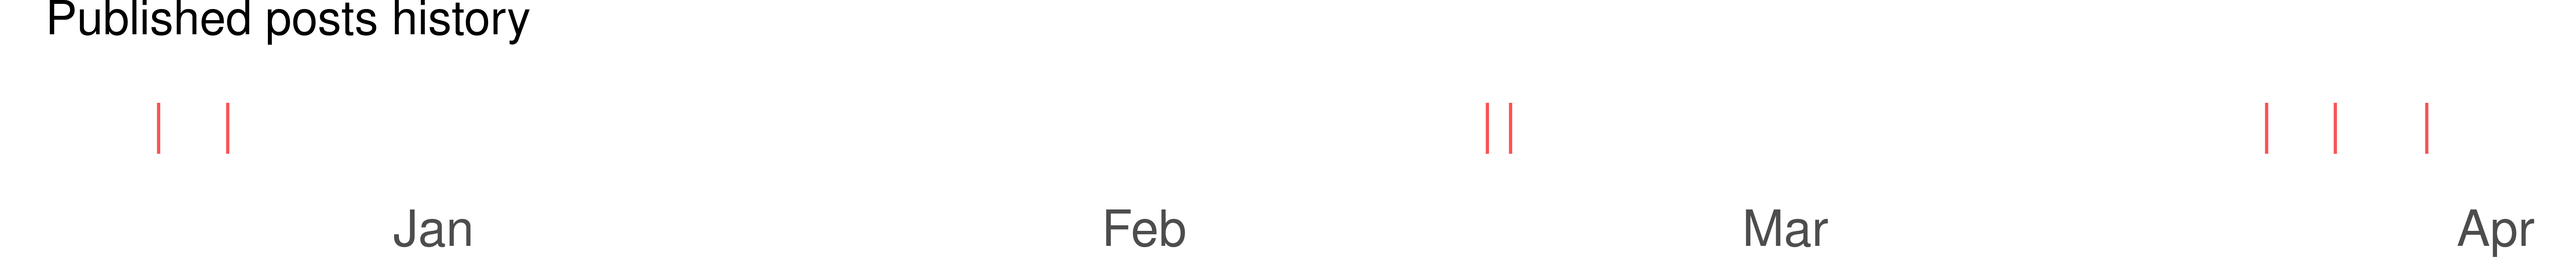
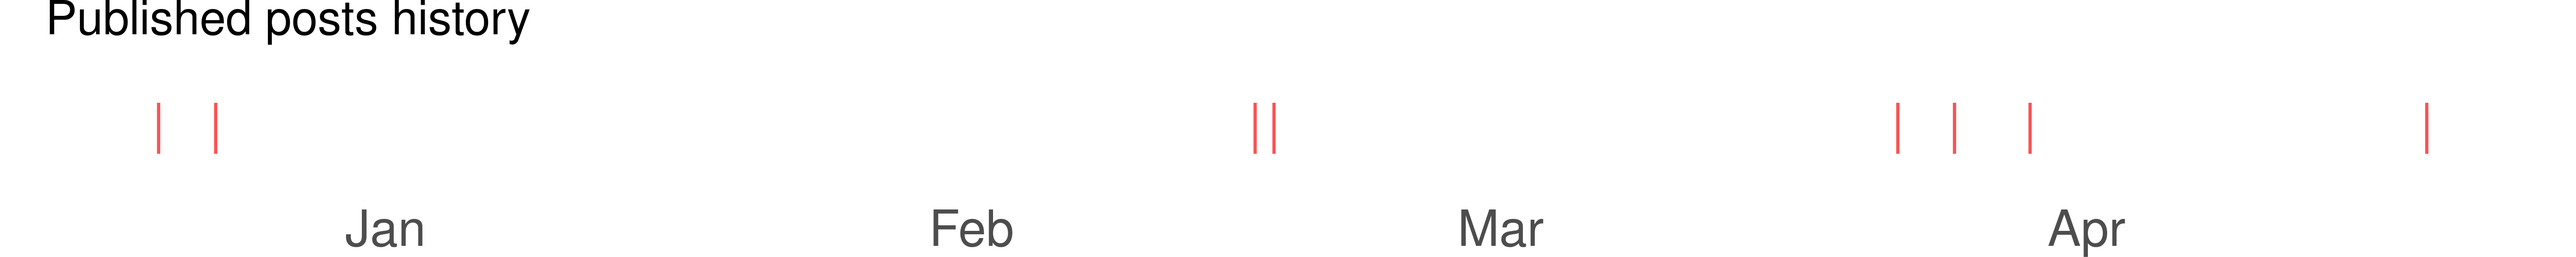
update blog post

diff --git a/docs/posts/2022-04-19-linkage-seminar-series-thursday-april-21/index.html b/docs/posts/2022-04-19-linkage-seminar-series-thursday-april-21/index.html
@@ -94,8 +94,8 @@ code span.wa { color: #5e5e5e; font-style: italic; } /* Warning */
 <link rel="canonical" href="https://recordlinkageig.github.io/posts/2022-04-19-linkage-seminar-series-thursday-april-21/"/>
 
 <!--  https://schema.org/Article -->
-<meta property="article:published" itemprop="datePublished" content="2022-03-25"/>
-<meta property="article:created" itemprop="dateCreated" content="2022-03-25"/>
+<meta property="article:published" itemprop="datePublished" content="2022-04-19"/>
+<meta property="article:created" itemprop="dateCreated" content="2022-04-19"/>
 <meta name="article:author" content="RLIG"/>
 
 <!--  https://developers.facebook.com/docs/sharing/webmasters#markup -->
@@ -117,14 +117,14 @@ code span.wa { color: #5e5e5e; font-style: italic; } /* Warning */
 <!--  https://scholar.google.com/intl/en/scholar/inclusion.html#indexing -->
 <meta name="citation_title" content="RLIG: 📢 Linkage Seminar Series - Thursday April 21"/>
 <meta name="citation_fulltext_html_url" content="https://recordlinkageig.github.io/posts/2022-04-19-linkage-seminar-series-thursday-april-21/"/>
-<meta name="citation_online_date" content="2022/03/25"/>
-<meta name="citation_publication_date" content="2022/03/25"/>
+<meta name="citation_online_date" content="2022/04/19"/>
+<meta name="citation_publication_date" content="2022/04/19"/>
 <meta name="citation_author" content="RLIG"/>
 <!--/radix_placeholder_meta_tags-->
   <!--radix_placeholder_rmarkdown_metadata-->
 
 <script type="text/json" id="radix-rmarkdown-metadata">
-{"type":"list","attributes":{"names":{"type":"character","attributes":{},"value":["title","description","author","date","preview","categories","output","citation_url","canonical_url"]}},"value":[{"type":"character","attributes":{},"value":["📢 Linkage Seminar Series - Thursday April 21"]},{"type":"character","attributes":{},"value":["David Beauchemin will discuss how duplicate detection can be used with AI and NLP techniques to extract information from external data sources using text distance metrics (e.g. Jaro) and classification algorithms. He will use a case study in insurance to demonstrate the proposed approach."]},{"type":"list","attributes":{},"value":[{"type":"list","attributes":{"names":{"type":"character","attributes":{},"value":["name"]}},"value":[{"type":"character","attributes":{},"value":["RLIG"]}]}]},{"type":"character","attributes":{},"value":["2022-03-25"]},{"type":"character","attributes":{},"value":["unnamed.jpg"]},{"type":"character","attributes":{},"value":["Events"]},{"type":"list","attributes":{"names":{"type":"character","attributes":{},"value":["distill::distill_article"]}},"value":[{"type":"list","attributes":{"names":{"type":"character","attributes":{},"value":["self_contained"]}},"value":[{"type":"logical","attributes":{},"value":[false]}]}]},{"type":"character","attributes":{},"value":["https://recordlinkageig.github.io/posts/2022-04-19-linkage-seminar-series-thursday-april-21/"]},{"type":"character","attributes":{},"value":["https://recordlinkageig.github.io/posts/2022-04-19-linkage-seminar-series-thursday-april-21/"]}]}
+{"type":"list","attributes":{"names":{"type":"character","attributes":{},"value":["title","description","author","date","preview","categories","output","citation_url","canonical_url"]}},"value":[{"type":"character","attributes":{},"value":["📢 Linkage Seminar Series - Thursday April 21"]},{"type":"character","attributes":{},"value":["David Beauchemin will discuss how duplicate detection can be used with AI and NLP techniques to extract information from external data sources using text distance metrics (e.g. Jaro) and classification algorithms. He will use a case study in insurance to demonstrate the proposed approach."]},{"type":"list","attributes":{},"value":[{"type":"list","attributes":{"names":{"type":"character","attributes":{},"value":["name"]}},"value":[{"type":"character","attributes":{},"value":["RLIG"]}]}]},{"type":"character","attributes":{},"value":["2022-04-19"]},{"type":"character","attributes":{},"value":["unnamed.jpg"]},{"type":"character","attributes":{},"value":["Events"]},{"type":"list","attributes":{"names":{"type":"character","attributes":{},"value":["distill::distill_article"]}},"value":[{"type":"list","attributes":{"names":{"type":"character","attributes":{},"value":["self_contained"]}},"value":[{"type":"logical","attributes":{},"value":[false]}]}]},{"type":"character","attributes":{},"value":["https://recordlinkageig.github.io/posts/2022-04-19-linkage-seminar-series-thursday-april-21/"]},{"type":"character","attributes":{},"value":["https://recordlinkageig.github.io/posts/2022-04-19-linkage-seminar-series-thursday-april-21/"]}]}
 </script>
 <!--/radix_placeholder_rmarkdown_metadata-->
   
@@ -2461,7 +2461,7 @@ d-appendix d-footnote-list a.footnote-backlink {
 <!--radix_placeholder_front_matter-->
 
 <script id="distill-front-matter" type="text/json">
-{"title":"📢 Linkage Seminar Series - Thursday April 21","description":"David Beauchemin will discuss how duplicate detection can be used with AI and NLP techniques to extract information from external data sources using text distance metrics (e.g. Jaro) and classification algorithms. He will use a case study in insurance to demonstrate the proposed approach.","authors":[{"author":"RLIG","authorURL":"#","affiliation":"&nbsp;","affiliationURL":"#","orcidID":""}],"publishedDate":"2022-03-25T00:00:00.000-04:00","citationText":"RLIG, 2022"}
+{"title":"📢 Linkage Seminar Series - Thursday April 21","description":"David Beauchemin will discuss how duplicate detection can be used with AI and NLP techniques to extract information from external data sources using text distance metrics (e.g. Jaro) and classification algorithms. He will use a case study in insurance to demonstrate the proposed approach.","authors":[{"author":"RLIG","authorURL":"#","affiliation":"&nbsp;","affiliationURL":"#","orcidID":""}],"publishedDate":"2022-04-19T00:00:00.000-04:00","citationText":"RLIG, 2022"}
 </script>
 
 <!--/radix_placeholder_front_matter-->
@@ -2507,7 +2507,7 @@ proposed approach.</p></p>
 <div class="d-byline">
   RLIG  
   
-<br/>2022-03-25
+<br/>2022-04-19
 </div>
 
 <div class="d-article">
@@ -2587,7 +2587,7 @@ class="sourceCode r distill-force-highlighting-css"><code class="sourceCode r"><
 <div class="appendix-bottom">
   <h3 id="citation">Citation</h3>
   <p>For attribution, please cite this work as</p>
-  <pre class="citation-appendix short">RLIG (2022, March 25). RLIG: 📢 Linkage Seminar Series - Thursday April 21. Retrieved from https://recordlinkageig.github.io/posts/2022-04-19-linkage-seminar-series-thursday-april-21/</pre>
+  <pre class="citation-appendix short">RLIG (2022, April 19). RLIG: 📢 Linkage Seminar Series - Thursday April 21. Retrieved from https://recordlinkageig.github.io/posts/2022-04-19-linkage-seminar-series-thursday-april-21/</pre>
   <p>BibTeX citation</p>
   <pre class="citation-appendix long">@misc{rlig2022📢,
   author = {RLIG, },

diff --git a/_posts/2022-04-19-linkage-seminar-series-thursday-april-21/linkage-seminar-series-thursday-april-21.html b/_posts/2022-04-19-linkage-seminar-series-thursday-april-21/linkage-seminar-series-thursday-april-21.html
@@ -93,8 +93,8 @@ code span.wa { color: #5e5e5e; font-style: italic; } /* Warning */
 
 
   <!--  https://schema.org/Article -->
-  <meta property="article:published" itemprop="datePublished" content="2022-03-25"/>
-  <meta property="article:created" itemprop="dateCreated" content="2022-03-25"/>
+  <meta property="article:published" itemprop="datePublished" content="2022-04-19"/>
+  <meta property="article:created" itemprop="dateCreated" content="2022-04-19"/>
   <meta name="article:author" content="RLIG"/>
 
   <!--  https://developers.facebook.com/docs/sharing/webmasters#markup -->
@@ -112,7 +112,7 @@ code span.wa { color: #5e5e5e; font-style: italic; } /* Warning */
   <!--radix_placeholder_rmarkdown_metadata-->
 
   <script type="text/json" id="radix-rmarkdown-metadata">
-  {"type":"list","attributes":{"names":{"type":"character","attributes":{},"value":["title","description","author","date","preview","categories","output"]}},"value":[{"type":"character","attributes":{},"value":["📢 Linkage Seminar Series - Thursday April 21"]},{"type":"character","attributes":{},"value":["David Beauchemin will discuss how duplicate detection can be used with AI and NLP techniques to extract information from external data sources using text distance metrics (e.g. Jaro) and classification algorithms. He will use a case study in insurance to demonstrate the proposed approach.\n"]},{"type":"list","attributes":{},"value":[{"type":"list","attributes":{"names":{"type":"character","attributes":{},"value":["name"]}},"value":[{"type":"character","attributes":{},"value":["RLIG"]}]}]},{"type":"character","attributes":{},"value":["2022-03-25"]},{"type":"character","attributes":{},"value":["unnamed.jpg"]},{"type":"character","attributes":{},"value":["Events"]},{"type":"list","attributes":{"names":{"type":"character","attributes":{},"value":["distill::distill_article"]}},"value":[{"type":"list","attributes":{"names":{"type":"character","attributes":{},"value":["self_contained"]}},"value":[{"type":"logical","attributes":{},"value":[false]}]}]}]}
+  {"type":"list","attributes":{"names":{"type":"character","attributes":{},"value":["title","description","author","date","preview","categories","output"]}},"value":[{"type":"character","attributes":{},"value":["📢 Linkage Seminar Series - Thursday April 21"]},{"type":"character","attributes":{},"value":["David Beauchemin will discuss how duplicate detection can be used with AI and NLP techniques to extract information from external data sources using text distance metrics (e.g. Jaro) and classification algorithms. He will use a case study in insurance to demonstrate the proposed approach.\n"]},{"type":"list","attributes":{},"value":[{"type":"list","attributes":{"names":{"type":"character","attributes":{},"value":["name"]}},"value":[{"type":"character","attributes":{},"value":["RLIG"]}]}]},{"type":"character","attributes":{},"value":["2022-04-19"]},{"type":"character","attributes":{},"value":["unnamed.jpg"]},{"type":"character","attributes":{},"value":["Events"]},{"type":"list","attributes":{"names":{"type":"character","attributes":{},"value":["distill::distill_article"]}},"value":[{"type":"list","attributes":{"names":{"type":"character","attributes":{},"value":["self_contained"]}},"value":[{"type":"logical","attributes":{},"value":[false]}]}]}]}
   </script>
   <!--/radix_placeholder_rmarkdown_metadata-->
   
@@ -1459,7 +1459,7 @@ code span.wa { color: #5e5e5e; font-style: italic; } /* Warning */
 <!--radix_placeholder_front_matter-->
 
 <script id="distill-front-matter" type="text/json">
-{"title":"📢 Linkage Seminar Series - Thursday April 21","description":"David Beauchemin will discuss how duplicate detection can be used with AI and NLP techniques to extract information from external data sources using text distance metrics (e.g. Jaro) and classification algorithms. He will use a case study in insurance to demonstrate the proposed approach.","authors":[{"author":"RLIG","authorURL":"#","affiliation":"&nbsp;","affiliationURL":"#","orcidID":""}],"publishedDate":"2022-03-25T00:00:00.000-04:00","citationText":"RLIG, 2022"}
+{"title":"📢 Linkage Seminar Series - Thursday April 21","description":"David Beauchemin will discuss how duplicate detection can be used with AI and NLP techniques to extract information from external data sources using text distance metrics (e.g. Jaro) and classification algorithms. He will use a case study in insurance to demonstrate the proposed approach.","authors":[{"author":"RLIG","authorURL":"#","affiliation":"&nbsp;","affiliationURL":"#","orcidID":""}],"publishedDate":"2022-04-19T00:00:00.000-04:00","citationText":"RLIG, 2022"}
 </script>
 
 <!--/radix_placeholder_front_matter-->
@@ -1485,7 +1485,7 @@ proposed approach.</p></p>
 <div class="d-byline">
   RLIG  
   
-<br/>2022-03-25
+<br/>2022-04-19
 </div>
 
 <div class="d-article">

diff --git a/docs/contribute.html b/docs/contribute.html
@@ -2501,9 +2501,9 @@ instructions.</p>
 </div>
 <h4 id="some-stats">Some stats</h4>
 <ul>
-<li><p>RLIG’s blog has <strong>7</strong> posts since
+<li><p>RLIG’s blog has <strong>8</strong> posts since
 <strong>2021-12-20</strong>.</p></li>
-<li><p>The last post was published <strong>21</strong> days ago (<a
+<li><p>The last post was published <strong>0</strong> days ago (<a
 href="https://recordlinkageig.github.io/posts/2022-03-29-record-linkage-methodology-under-fellegi-sunter-paradigm-with-extensions">📢
 Record Linkage Methodology Under Fellegi-Sunter Paradigm, with
 Extensions - Thursday April 7</a>).</p></li>
@@ -2542,29 +2542,35 @@ href="https://recordlinkageig.github.io/posts/2022-03-25-linkage-seminar-series-
 Linkage Seminar Series - Friday April 1st</a></td>
 </tr>
 <tr class="odd">
+<td style="text-align: left;">2022-04-19</td>
+<td style="text-align: left;"><a
+href="https://recordlinkageig.github.io/posts/2022-04-19-linkage-seminar-series-thursday-april-21">📢
+Linkage Seminar Series - Thursday April 21</a></td>
+</tr>
+<tr class="even">
 <td style="text-align: left;">2022-03-22</td>
 <td style="text-align: left;"><a
 href="https://recordlinkageig.github.io/posts/2022-03-22-bls-statistical-seminar-on-monday-march-28th">📢
 BLS Statistical Seminar on Monday, March 28th</a></td>
 </tr>
-<tr class="even">
+<tr class="odd">
 <td style="text-align: left;">2022-02-17</td>
 <td style="text-align: left;"><a
 href="https://recordlinkageig.github.io/posts/2022-02-17-deepparse">deepparse</a></td>
 </tr>
-<tr class="odd">
+<tr class="even">
 <td style="text-align: left;">2022-02-16</td>
 <td style="text-align: left;"><a
 href="https://recordlinkageig.github.io/posts/2022-02-16-youre-invited-linkage-seminar-series-thursday-february-24">📢
 Linkage Seminar Series - Thursday February 24</a></td>
 </tr>
-<tr class="even">
+<tr class="odd">
 <td style="text-align: left;">2021-12-23</td>
 <td style="text-align: left;"><a
 href="https://recordlinkageig.github.io/posts/2021-12-23-record-linkage-at-the-gpsg-community-pantry">Record
 Linkage at the Duke GPSG Community Pantry</a></td>
 </tr>
-<tr class="odd">
+<tr class="even">
 <td style="text-align: left;">2021-12-20</td>
 <td style="text-align: left;"><a
 href="https://recordlinkageig.github.io/posts/2021-12-20-welcome">Welcome!</a></td>
@@ -2666,7 +2672,7 @@ by its terms.</p>
 <h2 class="appendix" id="acknowledgements">Acknowledgements</h2>
 <p>This document uses code from <a
 href="https://github.com/shannonpileggi/pipinghotdata_distill">https://github.com/shannonpileggi/pipinghotdata_distill</a>.</p>
-<p><em>Updated 2022-04-19 15:34:18</em></p>
+<p><em>Updated 2022-04-19 15:38:53</em></p>
 <div class="sourceCode" id="cb6"><pre
 class="sourceCode r distill-force-highlighting-css"><code class="sourceCode r"></code></pre></div>
 <!--radix_placeholder_article_footer-->

diff --git a/docs/index.html b/docs/index.html
@@ -2603,6 +2603,25 @@ function init_posts_list() {
 <div class="posts-container posts-with-sidebar posts-apply-limit l-screen-inset">
 <div class="posts-list">
 <h1 class="posts-list-caption" data-caption="Blog of the Record Linkage Interest Group">Blog of the Record Linkage Interest Group</h1>
+<a href="posts/2022-04-19-linkage-seminar-series-thursday-april-21/" class="post-preview">
+<script class="post-metadata" type="text/json">{"categories":["Events"]}</script>
+<div class="metadata">
+<div class="publishedDate">April 19, 2022</div>
+<div class="dt-authors">
+<div class="dt-author">RLIG</div>
+</div>
+</div>
+<div class="thumbnail">
+<img src="posts/2022-04-19-linkage-seminar-series-thursday-april-21/unnamed.jpg"/>
+</div>
+<div class="description">
+<h2>📢 Linkage Seminar Series - Thursday April 21</h2>
+<div class="dt-tags">
+<div class="dt-tag">Events</div>
+</div>
+<p>David Beauchemin will discuss how duplicate detection can be used with AI and NLP techniques to extract information from external data sources using text distance metrics (e.g. Jaro) and classification algorithms. He will use a case study in insurance to demonstrate the proposed approach.</p>
+</div>
+</a>
 <a href="posts/2022-03-29-record-linkage-methodology-under-fellegi-sunter-paradigm-with-extensions/" class="post-preview">
 <script class="post-metadata" type="text/json">{"categories":["Events"]}</script>
 <div class="metadata">
@@ -2639,25 +2658,6 @@ function init_posts_list() {
 <div class="dt-tag">Events</div>
 </div>
 <p>Roee Gutman will present work that view record linkage as a missing data problem and he will describe Bayesian procedures that utilize data features that are frequently encountered in public health applications.</p>
-</div>
-</a>
-<a href="posts/2022-04-19-linkage-seminar-series-thursday-april-21/" class="post-preview">
-<script class="post-metadata" type="text/json">{"categories":["Events"]}</script>
-<div class="metadata">
-<div class="publishedDate">March 25, 2022</div>
-<div class="dt-authors">
-<div class="dt-author">RLIG</div>
-</div>
-</div>
-<div class="thumbnail">
-<img src="posts/2022-04-19-linkage-seminar-series-thursday-april-21/unnamed.jpg"/>
-</div>
-<div class="description">
-<h2>📢 Linkage Seminar Series - Thursday April 21</h2>
-<div class="dt-tags">
-<div class="dt-tag">Events</div>
-</div>
-<p>David Beauchemin will discuss how duplicate detection can be used with AI and NLP techniques to extract information from external data sources using text distance metrics (e.g. Jaro) and classification algorithms. He will use a case study in insurance to demonstrate the proposed approach.</p>
 </div>
 </a>
 <a href="posts/2022-03-22-bls-statistical-seminar-on-monday-march-28th/" class="post-preview">
